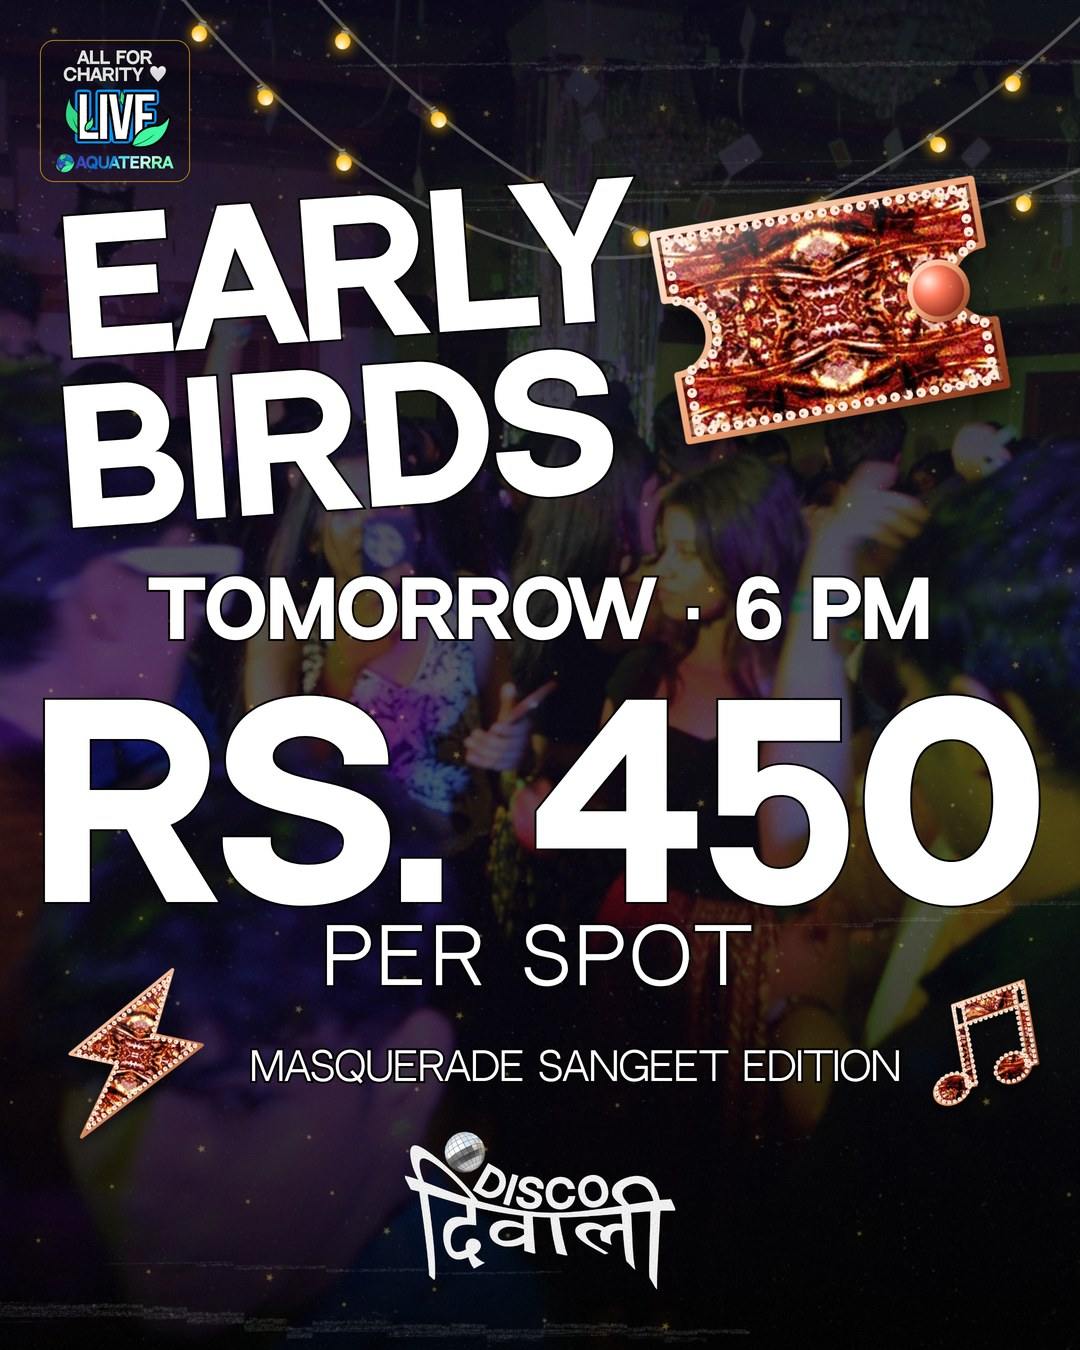
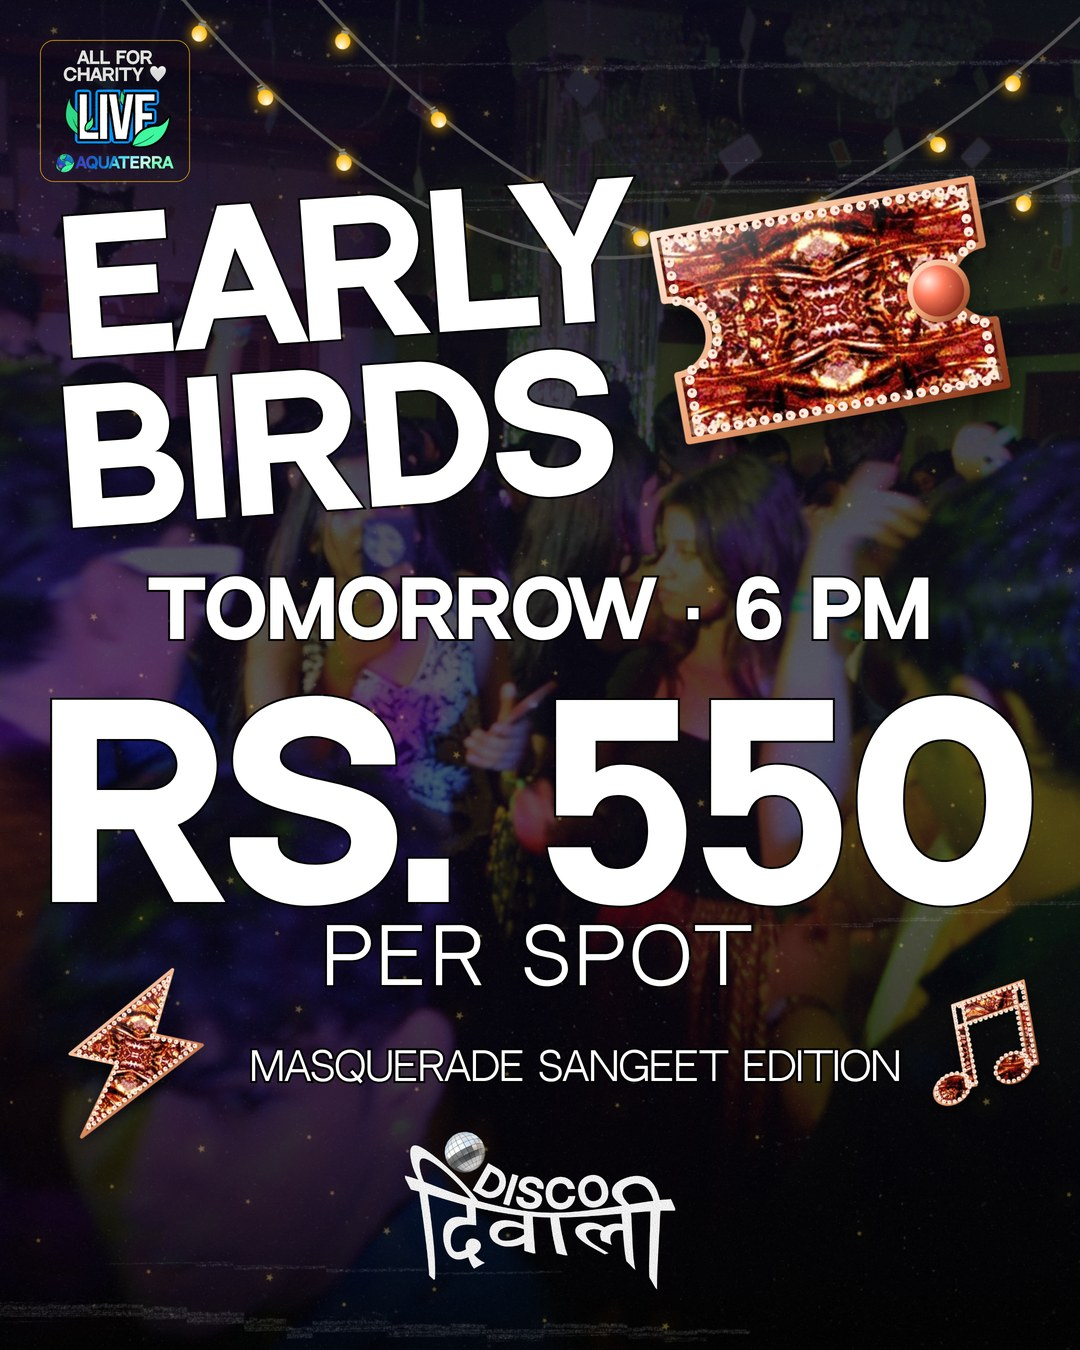
Disco Diwali Early Birds: price corrected to Rs.550
Claude-Session: https://claude.ai/code/session_01SvqxkoTEENgXPyjFifmnqB

diff --git a/scratchpad/dd_early_birds.py b/scratchpad/dd_early_birds.py
@@ -1,7 +1,7 @@
 """DISCO DIWALI EARLY BIRDS poster, feed 1080x1350 (WhatsApp and Instagram feed) and story 1080x1920 (user, 2026-10-21):
-"create a WhatsApp and Instagram poster saying that early birds is tomorrow and it is for 450 rupees per spot. It is at 6 p.m."
+"create a WhatsApp and Instagram poster saying that early birds is tomorrow and it is for 450 rupees (corrected by the user to 550) per spot. It is at 6 p.m."
 
-Facts printed, all supplied: EARLY BIRDS, TOMORROW, 6 PM, RS. 450 PER SPOT, ALL FOR CHARITY (the badge), the edition. NOT printed because not supplied: a slot count (the
+Facts printed, all supplied: EARLY BIRDS, TOMORROW, 6 PM, RS. 550 PER SPOT, ALL FOR CHARITY (the badge), the edition. NOT printed because not supplied: a slot count (the
 phased-scarcity rule forbids inventing one), a calendar date for "tomorrow" (the poster is only true the day before), a ticket link (so no LINK IN BIO pill; add one the moment a link
 exists). Photo ground (event photo 14_05), hero = the price, a copper ticket sticker plus bolt and note, the lockup as a footer mark.
 Run: PYTHONIOENCODING=utf-8 python scratchpad/dd_early_birds.py
@@ -37,7 +37,7 @@ def build(H):
     text("h1", "Early", 190, 175, x=60, w=560, align="left", rot=-4)
     text("h2", "birds", 360, 175, x=60, w=560, align="left", rot=-4)
     text("when", "Tomorrow &middot; 6 PM", 575, 76, x=0, w=W)
-    text("price", "RS. 450", 690, 250, x=0, w=W)
+    text("price", "RS. 550", 690, 250, x=0, w=W)
     text("per", "per spot", 925, 74, 400, x=250, w=580, extra="letter-spacing:6px;")
     sticker("ticket", cp.ticket(380, -10, "e2"), 640, 120, 380, 380, 13)
     sticker("bolt", cp.bolt(190, 12, "e3"), 40, 960, 190, 190, 13)

diff --git a/brain/DISCO_DIWALI.md b/brain/DISCO_DIWALI.md
@@ -112,7 +112,7 @@ Five slides, feed and story. User: "make a carousel for dj reveal. keep the same
 Static 1080x1350 (user: "create a static WhatsApp poster with both the date and location revealed"). Prints only supplied facts: TUESDAY (weekday derived from the date), 10 NOVEMBER, 2026, 4:30 PM ONWARDS, 60, CHOWRINGHEE BANQUETS, the full address, ON THE ROOFTOP, the LIVE badge and the lockup. Photo ground (event photo 07_06), copper calendar sticker top right, the user's map screenshot on a tilted card with the copper pin on its top-left corner, no link pill. **The "two days after Diwali / one day before Bhai Dooj" line is deliberately NOT on it**: it is still unconfirmed against a Kolkata panchang, and a poster stating the date and venue as fact should not carry an unchecked festival claim; add it back only once confirmed. Lessons: the first stack ran 71px into the lockup (gate caught it), fixed by a smaller card and venue type; stickers declared overlap-ignored hid two real collisions with type (calendar on the "R" of NOVEMBER, pin on "ONWARDS") that only the eye caught, so ignore only the one intended sticker-on-card pair.
 
 ### Early Birds poster (2026-10-21) — `scratchpad/dd_early_birds.py`, JPEGs in `sample_outputs/disco_diwali_early_birds/`
-Feed 1080x1350 (serves WhatsApp and Instagram feed) and story 1080x1920. User: early birds is tomorrow, Rs.450 per spot, at 6 PM. Prints only those facts: EARLY BIRDS, TOMORROW, 6 PM, RS. 450 PER SPOT, the edition and the badge. NOT printed because not supplied: a slot count (never invent scarcity), a calendar date for "tomorrow" (so the poster is only true the day before; retire it after), a ticket link (no LINK IN BIO pill; add one once a link exists, and then the caption can say so). The price is the hero at 250px; a new copper TICKET sticker (`dd_copper.ticket`, a bite out of each short side, perforation line, gem stub) sits beside the headline, with a bolt and a note. Photo ground 14_05. Lessons: a star next to the ticket overlapped it for real and was cut; declared text boxes wider than their words create false collisions, so declare the tight box; on a story the badge is placed absolutely (not feed-y plus the story shift) or it lands on the headline.
+Feed 1080x1350 (serves WhatsApp and Instagram feed) and story 1080x1920. User: early birds is tomorrow, Rs.550 per spot (first said 450; the user corrected it to 550), at 6 PM. Prints only those facts: EARLY BIRDS, TOMORROW, 6 PM, RS. 550 PER SPOT, the edition and the badge. NOT printed because not supplied: a slot count (never invent scarcity), a calendar date for "tomorrow" (so the poster is only true the day before; retire it after), a ticket link (no LINK IN BIO pill; add one once a link exists, and then the caption can say so). The price is the hero at 250px; a new copper TICKET sticker (`dd_copper.ticket`, a bite out of each short side, perforation line, gem stub) sits beside the headline, with a bolt and a note. Photo ground 14_05. Lessons: a star next to the ticket overlapped it for real and was cut; declared text boxes wider than their words create false collisions, so declare the tight box; on a story the badge is placed absolutely (not feed-y plus the story shift) or it lands on the headline.
 
 ## 6. Conflicts with CLAUDE.md and how they were resolved (precedence ladder, sec 2)
 - Ground, palette and fonts differ from the AQ house style. Resolved as a format exception, like TerraThon. The format wins inside `discodiwali.py` only.
